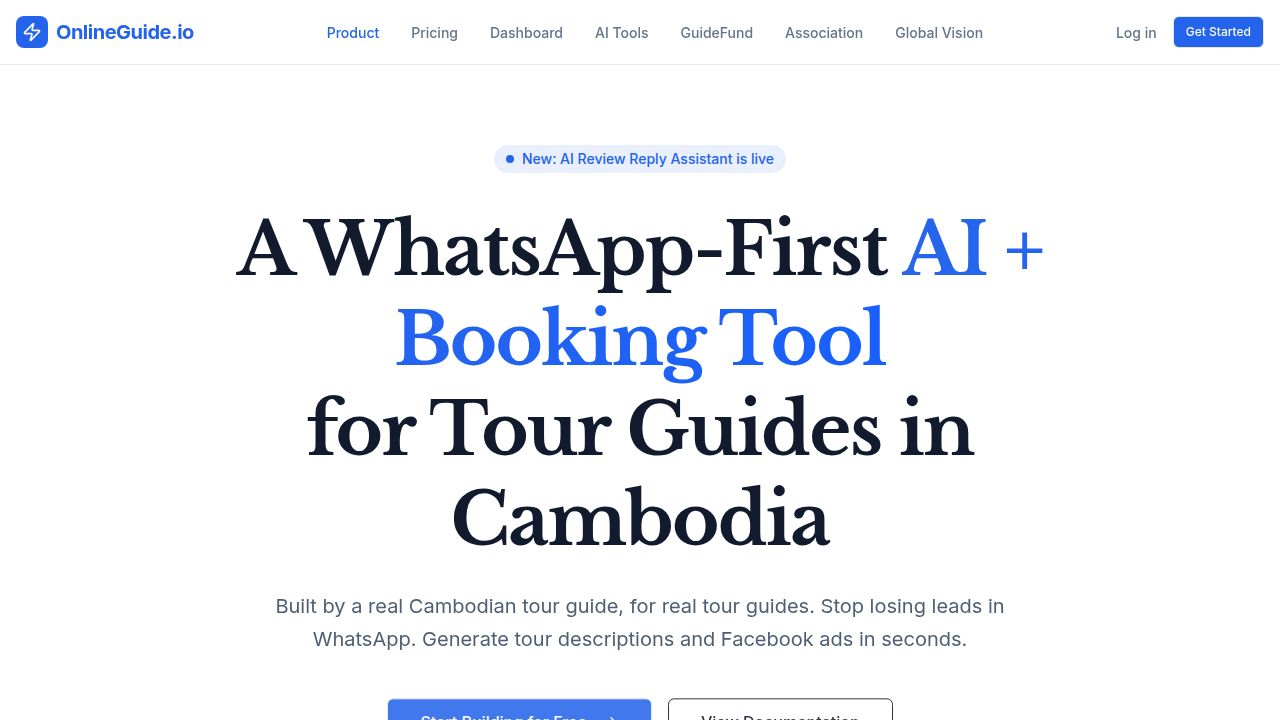
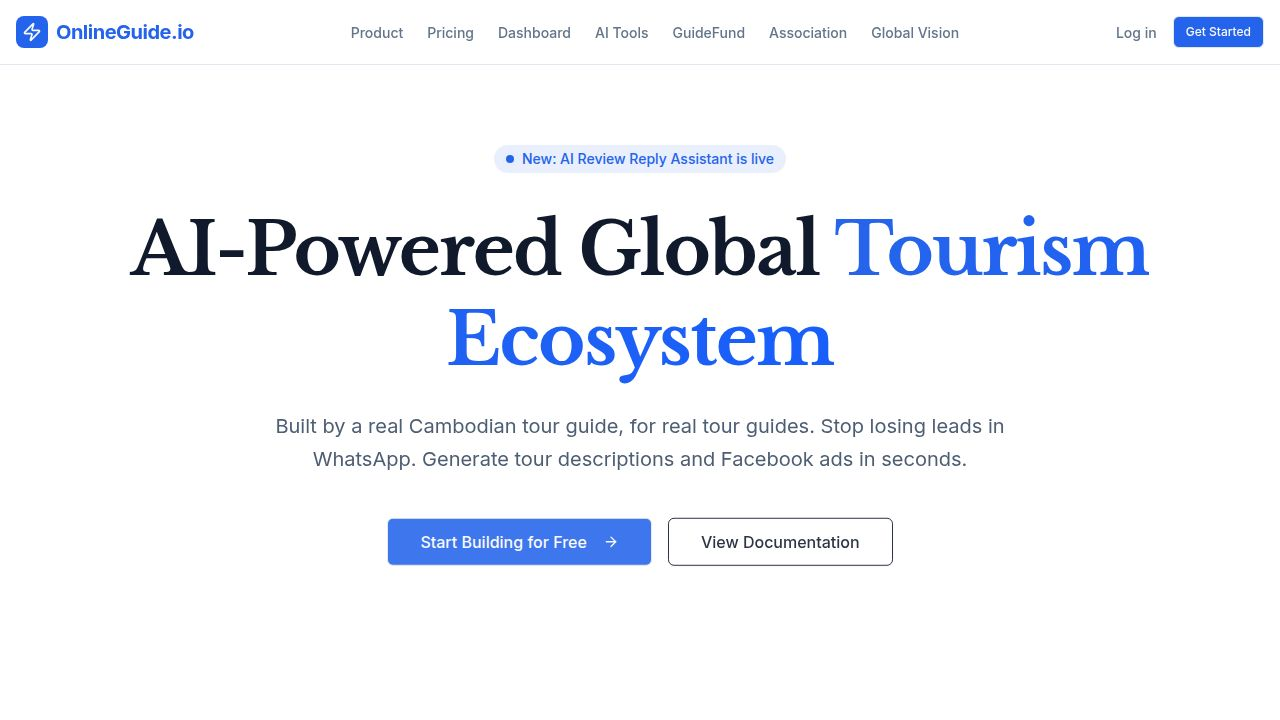
Integrate a comprehensive product page showcasing AI, fundraising, and global heritage modules
Create a new unified `/product` route integrating AI Tools, GuideFund, and Global Vision modules into a single showcase page, updating navigation and homepage messaging to reflect the new "AI-Powered Global Tourism Ecosystem" identity.

Replit-Commit-Author: Agent
Replit-Commit-Session-Id: 3ab86096-a957-4c91-93e5-118d0484e3ce
Replit-Commit-Checkpoint-Type: full_checkpoint
Replit-Commit-Event-Id: c6aebb14-a253-4dc3-b98c-f4f1f5e82ce9
Replit-Commit-Screenshot-Url: https://storage.googleapis.com/screenshot-production-us-central1/2dc7b8b6-7c9c-47a3-91fe-757355743503/3ab86096-a957-4c91-93e5-118d0484e3ce/ZQlrstt
Replit-Helium-Checkpoint-Created: true

diff --git a/client/src/pages/product.tsx b/client/src/pages/product.tsx
@@ -1,0 +1,163 @@
+import { Layout } from "@/components/layout";
+import { Badge } from "@/components/ui/badge";
+import { Button } from "@/components/ui/button";
+import { Card, CardContent, CardHeader, CardTitle } from "@/components/ui/card";
+import { 
+  Zap, 
+  Heart, 
+  Globe, 
+  Bot, 
+  MessageSquare, 
+  Map, 
+  ShoppingBag, 
+  Star,
+  ArrowRight,
+  ShieldCheck,
+  Languages,
+  BookOpen,
+  Image as ImageIcon
+} from "lucide-react";
+import { Link } from "wouter";
+
+export default function Product() {
+  return (
+    <Layout>
+      <div className="bg-slate-50 pt-20 pb-32">
+        <div className="container mx-auto px-4">
+          {/* Hero Section */}
+          <div className="text-center max-w-4xl mx-auto mb-20">
+            <Badge variant="secondary" className="mb-4 text-primary bg-primary/5">The Master Product</Badge>
+            <h1 className="text-4xl md:text-6xl font-bold text-slate-900 mb-6 tracking-tight">
+              AI-Powered Global <br /> <span className="text-primary">Tourism Ecosystem</span>
+            </h1>
+            <p className="text-xl text-slate-600 leading-relaxed max-w-3xl mx-auto">
+              Connecting 3 Billion Travel Lovers with Cambodian guides and global partners through a decentralized digital infrastructure.
+            </p>
+          </div>
+
+          {/* Core Modules Grid */}
+          <div className="grid grid-cols-1 md:grid-cols-3 gap-8 mb-32">
+            <Card className="border-none shadow-sm hover:shadow-md transition-shadow group">
+              <CardHeader>
+                <div className="h-12 w-12 rounded-xl bg-purple-50 flex items-center justify-center mb-4 border border-purple-100">
+                  <Bot className="h-6 w-6 text-purple-600" />
+                </div>
+                <CardTitle className="text-2xl">AI Tools</CardTitle>
+              </CardHeader>
+              <CardContent className="space-y-4">
+                <p className="text-slate-600">Smart tourism engine to automate marketing, booking, and content for guides.</p>
+                <ul className="space-y-2 text-sm text-slate-500">
+                  <li className="flex items-center gap-2"><div className="h-1 w-1 rounded-full bg-purple-400" /> AI Tour Generator</li>
+                  <li className="flex items-center gap-2"><div className="h-1 w-1 rounded-full bg-purple-400" /> WhatsApp Auto-Reply</li>
+                  <li className="flex items-center gap-2"><div className="h-1 w-1 rounded-full bg-purple-400" /> AI Itinerary Builder</li>
+                </ul>
+                <Link href="/dashboard/tools">
+                  <Button variant="ghost" className="p-0 text-purple-600 hover:text-purple-700">Explore AI Tools <ArrowRight className="ml-2 h-4 w-4" /></Button>
+                </Link>
+              </CardContent>
+            </Card>
+
+            <Card className="border-none shadow-sm hover:shadow-md transition-shadow group">
+              <CardHeader>
+                <div className="h-12 w-12 rounded-xl bg-rose-50 flex items-center justify-center mb-4 border border-rose-100">
+                  <Heart className="h-6 w-6 text-rose-600" />
+                </div>
+                <CardTitle className="text-2xl">GuideFund</CardTitle>
+              </CardHeader>
+              <CardContent className="space-y-4">
+                <p className="text-slate-600">Financial empowerment for local guides through professional fundraising.</p>
+                <ul className="space-y-2 text-sm text-slate-500">
+                  <li className="flex items-center gap-2"><div className="h-1 w-1 rounded-full bg-rose-400" /> Global Tourist Support</li>
+                  <li className="flex items-center gap-2"><div className="h-1 w-1 rounded-full bg-rose-400" /> Community Project Fund</li>
+                  <li className="flex items-center gap-2"><div className="h-1 w-1 rounded-full bg-rose-400" /> Certification Support</li>
+                </ul>
+                <Link href="/fundraising">
+                  <Button variant="ghost" className="p-0 text-rose-600 hover:text-rose-700">View GuideFund <ArrowRight className="ml-2 h-4 w-4" /></Button>
+                </Link>
+              </CardContent>
+            </Card>
+
+            <Card className="border-none shadow-sm hover:shadow-md transition-shadow group">
+              <CardHeader>
+                <div className="h-12 w-12 rounded-xl bg-blue-50 flex items-center justify-center mb-4 border border-blue-100">
+                  <Globe className="h-6 w-6 text-blue-600" />
+                </div>
+                <CardTitle className="text-2xl">Global Vision</CardTitle>
+              </CardHeader>
+              <CardContent className="space-y-4">
+                <p className="text-slate-600">Scalable network connecting influencers, hotels, and cultural storytellers.</p>
+                <ul className="space-y-2 text-sm text-slate-500">
+                  <li className="flex items-center gap-2"><div className="h-1 w-1 rounded-full bg-blue-400" /> Multilingual Framework</li>
+                  <li className="flex items-center gap-2"><div className="h-1 w-1 rounded-full bg-blue-400" /> Digital Postcard Project</li>
+                  <li className="flex items-center gap-2"><div className="h-1 w-1 rounded-full bg-blue-400" /> AI Guide Book</li>
+                </ul>
+                <Link href="/global/vision">
+                  <Button variant="ghost" className="p-0 text-blue-600 hover:text-blue-700">Explore Vision <ArrowRight className="ml-2 h-4 w-4" /></Button>
+                </Link>
+              </CardContent>
+            </Card>
+          </div>
+
+          {/* Digital Content Ecosystem */}
+          <div className="max-w-6xl mx-auto space-y-32">
+            <section className="grid grid-cols-1 lg:grid-cols-2 gap-16 items-center">
+              <div className="space-y-6">
+                <Badge variant="outline" className="text-primary border-primary/20">Marketplace</Badge>
+                <h2 className="text-3xl font-bold text-slate-900 leading-tight">Digital Content Marketplace</h2>
+                <p className="text-lg text-slate-600">
+                  Turn your expertise into passive income. Sell high-resolution photography, cultural ebooks, and educational courses to a global audience.
+                </p>
+                <div className="grid grid-cols-2 gap-4">
+                  <div className="p-4 rounded-xl border bg-white shadow-sm flex items-center gap-3">
+                    <ImageIcon className="h-5 w-5 text-amber-500" />
+                    <span className="font-medium text-slate-700">Photo Licensing</span>
+                  </div>
+                  <div className="p-4 rounded-xl border bg-white shadow-sm flex items-center gap-3">
+                    <BookOpen className="h-5 w-5 text-blue-500" />
+                    <span className="font-medium text-slate-700">Heritage Ebooks</span>
+                  </div>
+                </div>
+              </div>
+              <div className="bg-slate-900 rounded-3xl p-8 text-white relative overflow-hidden h-80 flex items-center justify-center">
+                <div className="absolute inset-0 bg-gradient-to-br from-primary/20 to-transparent opacity-50" />
+                <ShoppingBag className="h-32 w-32 text-white/10 absolute rotate-12" />
+                <div className="text-center relative z-10">
+                  <h3 className="text-2xl font-bold mb-2">Shopify Ready</h3>
+                  <p className="text-slate-400">Global payments & automated delivery</p>
+                </div>
+              </div>
+            </section>
+
+            {/* AI Agent System */}
+            <section className="grid grid-cols-1 lg:grid-cols-2 gap-16 items-center flex-row-reverse">
+              <div className="lg:order-last space-y-6">
+                <Badge variant="outline" className="text-purple-600 border-purple-200">Automation</Badge>
+                <h2 className="text-3xl font-bold text-slate-900 leading-tight">Zapier AI Agent System</h2>
+                <p className="text-lg text-slate-600">
+                  Your smart digital assistant working 24/7. Automatically qualifies leads, books tours, and manages your social presence.
+                </p>
+                <ul className="space-y-3">
+                  {['Sales Follow-up Agent', 'Tour Booking Agent', 'Review Growth Agent', 'Social Content Agent'].map((agent, i) => (
+                    <li key={i} className="flex items-center gap-3 text-slate-700">
+                      <ShieldCheck className="h-5 w-5 text-emerald-500" />
+                      {agent}
+                    </li>
+                  ))}
+                </ul>
+              </div>
+              <div className="bg-slate-200 rounded-3xl h-80 flex items-center justify-center relative overflow-hidden">
+                <Zap className="h-32 w-32 text-slate-400/20 absolute -bottom-10 -left-10" />
+                <div className="text-center">
+                  <div className="inline-flex items-center gap-2 p-4 bg-white rounded-2xl shadow-xl border border-slate-100 animate-bounce">
+                    <Bot className="h-6 w-6 text-primary" />
+                    <span className="font-bold text-slate-900">Agent Online</span>
+                  </div>
+                </div>
+              </div>
+            </section>
+          </div>
+        </div>
+      </div>
+    </Layout>
+  );
+}

diff --git a/client/src/components/layout.tsx b/client/src/components/layout.tsx
@@ -23,8 +23,8 @@ export function Navbar() {
 
         {/* Desktop Nav */}
         <nav className="hidden md:flex items-center gap-6">
-          <Link href="/">
-            <span className={`text-sm font-medium transition-colors hover:text-primary cursor-pointer ${isActive("/") ? "text-primary" : "text-muted-foreground"}`}>
+          <Link href="/product">
+            <span className={`text-sm font-medium transition-colors hover:text-primary cursor-pointer ${isActive("/product") ? "text-primary" : "text-muted-foreground"}`}>
               Product
             </span>
           </Link>
@@ -82,7 +82,7 @@ export function Navbar() {
             </SheetTrigger>
             <SheetContent side="right">
               <div className="flex flex-col gap-6 mt-6">
-                <Link href="/">
+                <Link href="/product">
                   <span className="text-lg font-medium cursor-pointer">Product</span>
                 </Link>
                 <Link href="/pricing">

diff --git a/client/src/pages/home.tsx b/client/src/pages/home.tsx
@@ -22,7 +22,7 @@ export default function Home() {
           </div>
           
           <h1 className="text-4xl md:text-6xl lg:text-7xl font-bold tracking-tight text-slate-900 mb-6 max-w-5xl mx-auto leading-tight animate-in fade-in slide-in-from-bottom-4 duration-700">
-            A WhatsApp-First <span className="text-transparent bg-clip-text bg-gradient-to-r from-primary to-blue-600">AI + Booking Tool</span> <br className="hidden md:block" /> for Tour Guides in Cambodia
+            AI-Powered Global <span className="text-transparent bg-clip-text bg-gradient-to-r from-primary to-blue-600">Tourism Ecosystem</span>
           </h1>
           
           <p className="text-xl text-slate-600 max-w-3xl mx-auto mb-10 leading-relaxed animate-in fade-in slide-in-from-bottom-6 duration-700 delay-100">

diff --git a/client/src/App.tsx b/client/src/App.tsx
@@ -6,6 +6,7 @@ import { TooltipProvider } from "@/components/ui/tooltip";
 import NotFound from "@/pages/not-found";
 import Home from "@/pages/home";
 import Pricing from "@/pages/pricing";
+import Product from "@/pages/product";
 import DashboardOverview from "@/pages/dashboard/index";
 import AIToolsDashboard from "@/pages/dashboard/tools";
 import DigitalProducts from "@/pages/dashboard/products/index";
@@ -22,6 +23,7 @@ function Router() {
   return (
     <Switch>
       <Route path="/" component={Home} />
+      <Route path="/product" component={Product} />
       <Route path="/pricing" component={Pricing} />
       <Route path="/fundraising" component={PublicFundraising} />
       <Route path="/association" component={Association} />
